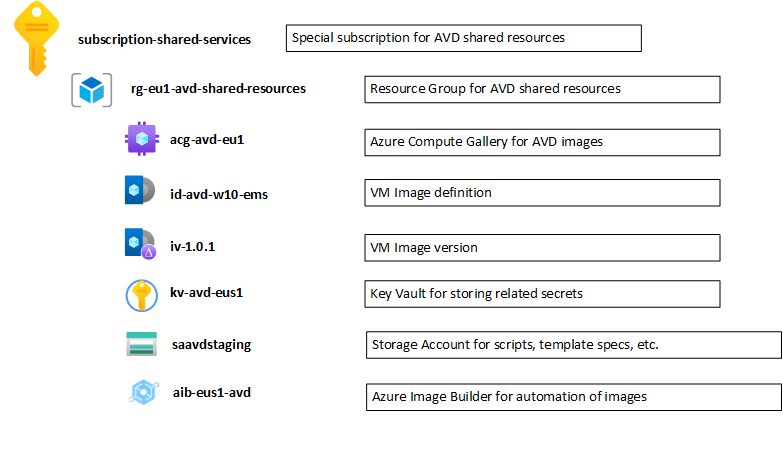
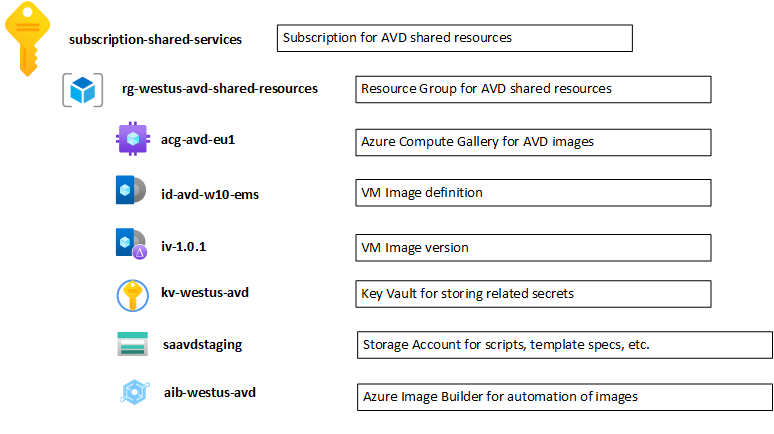
added text sub structure

Changed region(s): [[0.4651, 0.2696, 1.0, 0.9585], [0.0, 0.0, 0.8372, 0.9286], [0.4651, 0.1498, 0.9302, 0.2396]]

diff --git a/docs/scenarios/wvd/eslz-resource-organization.md b/docs/scenarios/wvd/eslz-resource-organization.md
@@ -58,9 +58,27 @@ Create management groups under your root-level management group to represent the
 
 Subscriptions serve as a scale unit so that component workloads can scale within the platform [subscription limits](/azure/azure-resource-manager/management/azure-subscription-service-limits). Make sure to consider subscription resource limits during your workload design sessions.
 
-Subscriptions provide a management boundary for governance and isolation, which clearly separates concerns.
+Subscriptions provide a management boundary for governance and isolation, which clearly separates concerns. An AVD shared services subscription is recommended but not required.
 
-Below is the recommended structure and Resource Groups to be created and use as administrative domains and lifecycle purposes for each Azure Region deployed.
+This below is the suggested structure for AVD resources to be created. The subscriptions and Resource Group function as administrative domains and lifecycle purposes for each Azure Region deployed.
+
+```text
+    - Azure Virtual Desktop Service Objects:  Separate Azure Virtual Desktop Service Objects from Host Pool VMs.  Service objects like Workspaces, Host Pools and Application Groups.  
+    - Networking:  Generally created as part of the Cloud Adoption Framework Landing zone
+    - Storage:  If not already created as part of Cloud Adoption Framework, create a resource group for storage accounts
+    - Images:  Create a resource group for custom VM images
+    
+    - Basic Structure:
+        - Subscription (AVD-Shared-Services)
+            - rg-<Azure-Region>-avd-shared-resources
+        - Subscription (AVD)
+            - rg-<Azure-Region>-avd-<Workload>-service-objects
+            - rg-<Azure-Region>-avd-<Workload>-network
+            - rg-<Azure-Region>-avd-<Workload>-pool-compute
+            - rg-<Azure-Region>-avd-<Workload>-storage
+```
+
+Below is an example from the recommended structure above for the AVD resources already deployed.
 
 ![AVD base subscription](../../../docs/scenarios/wvd/media/avd-resource-management-1.png)
 
